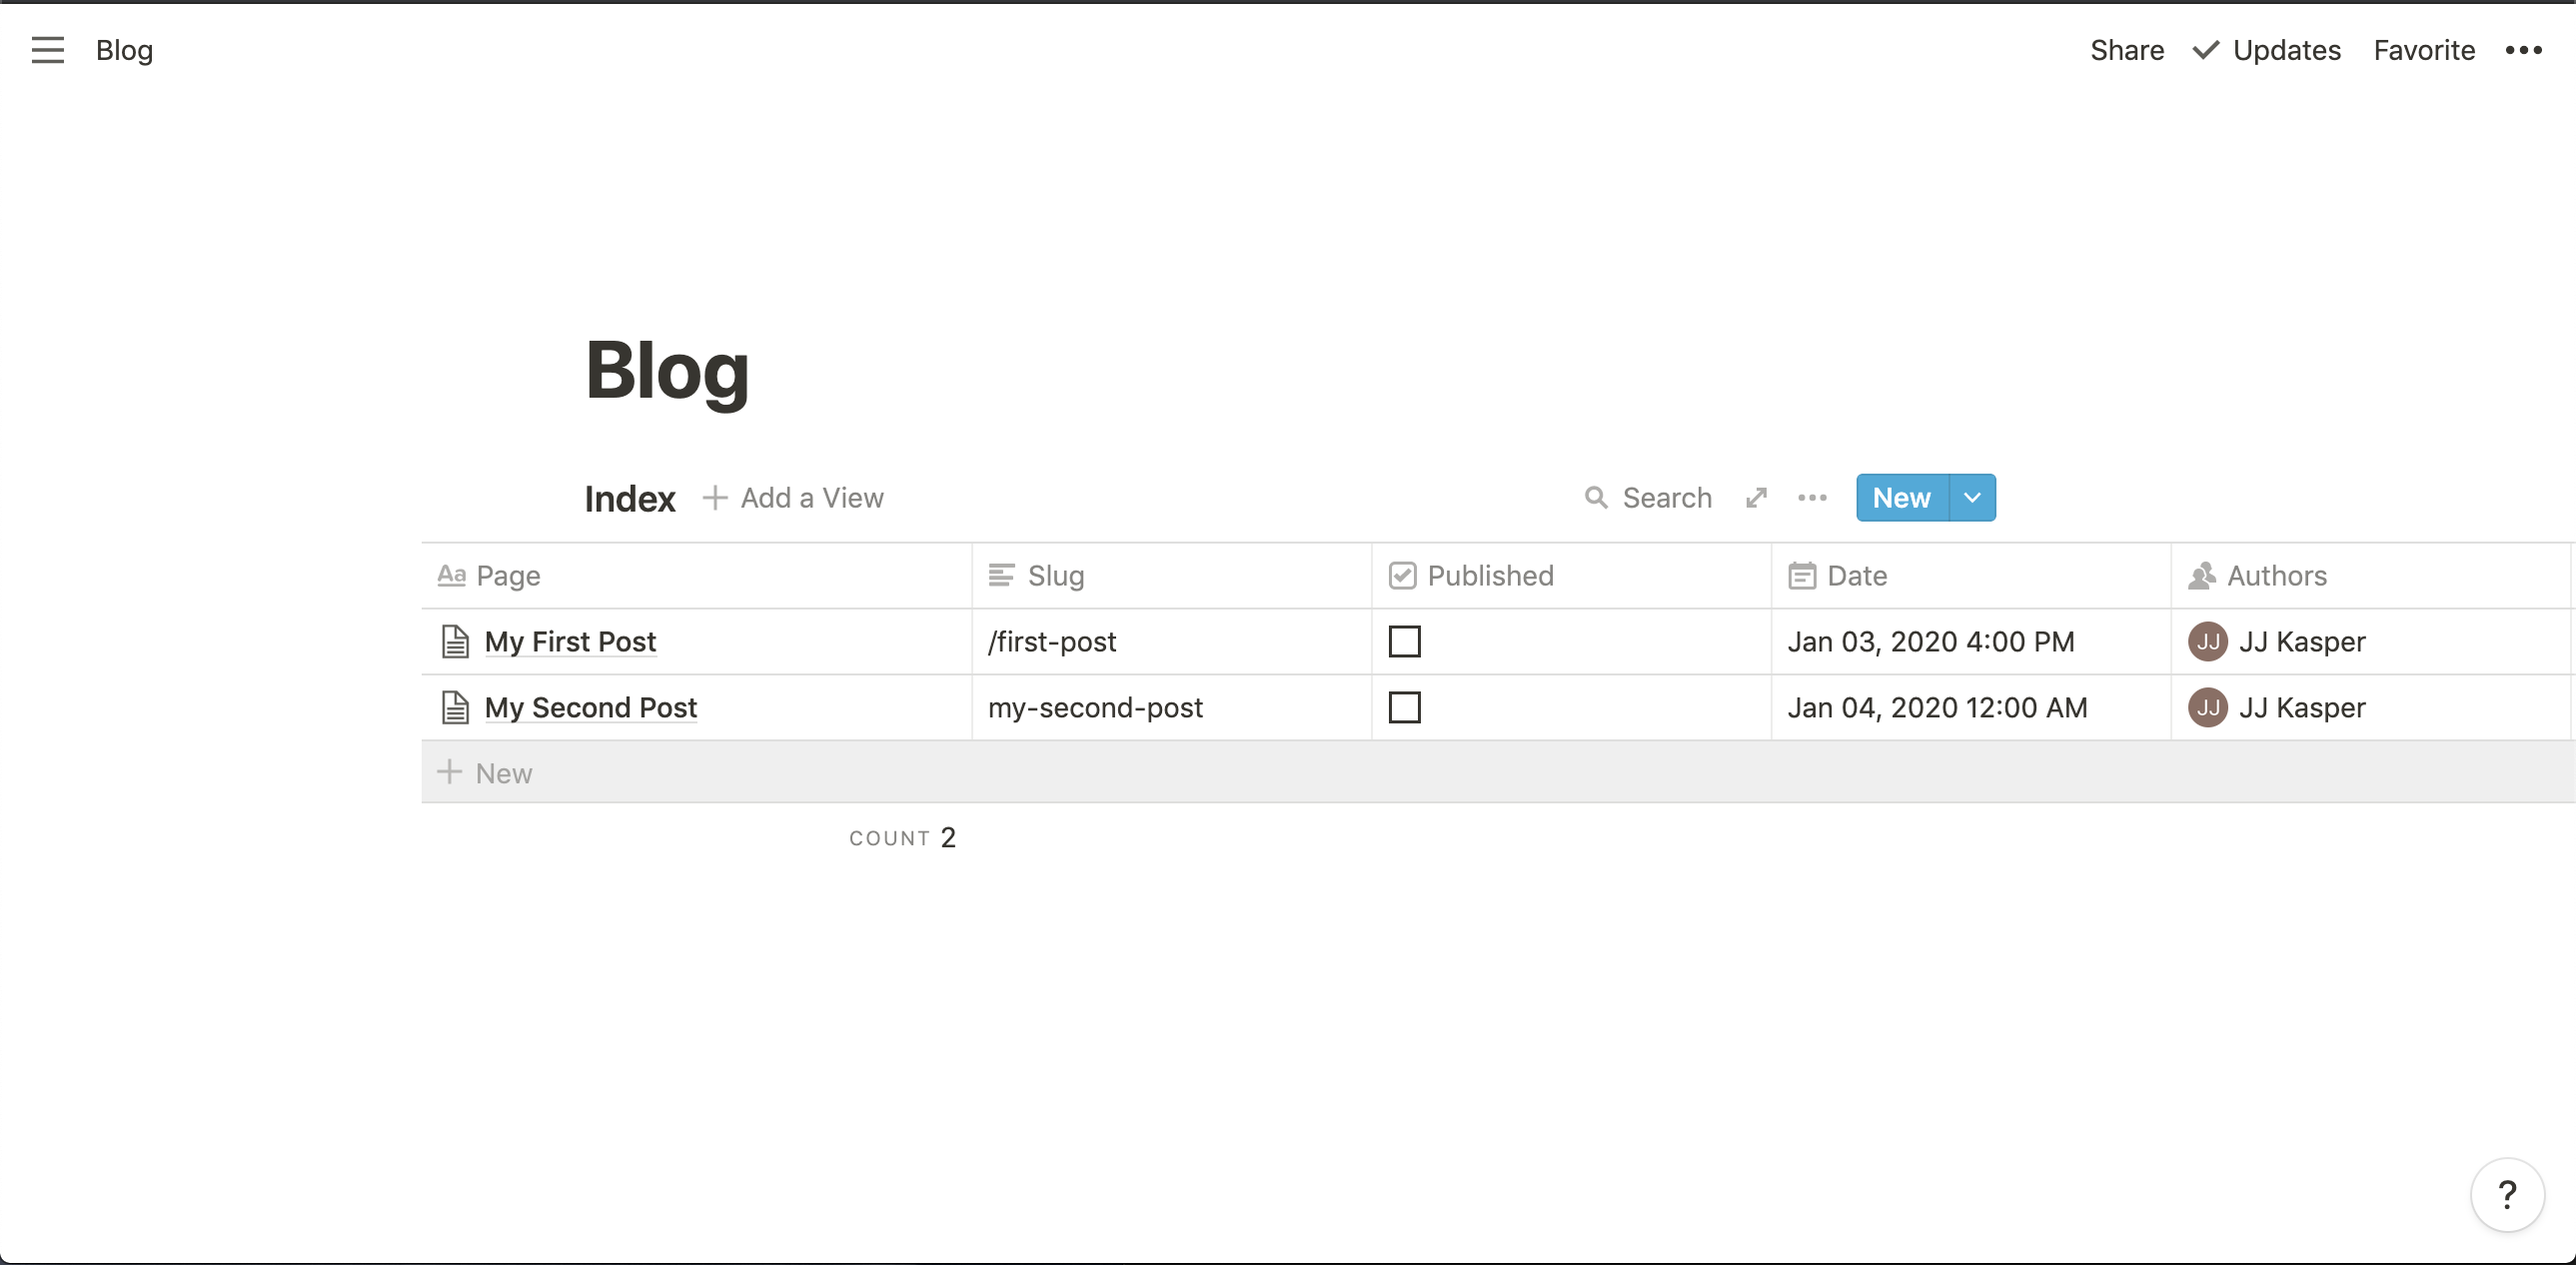
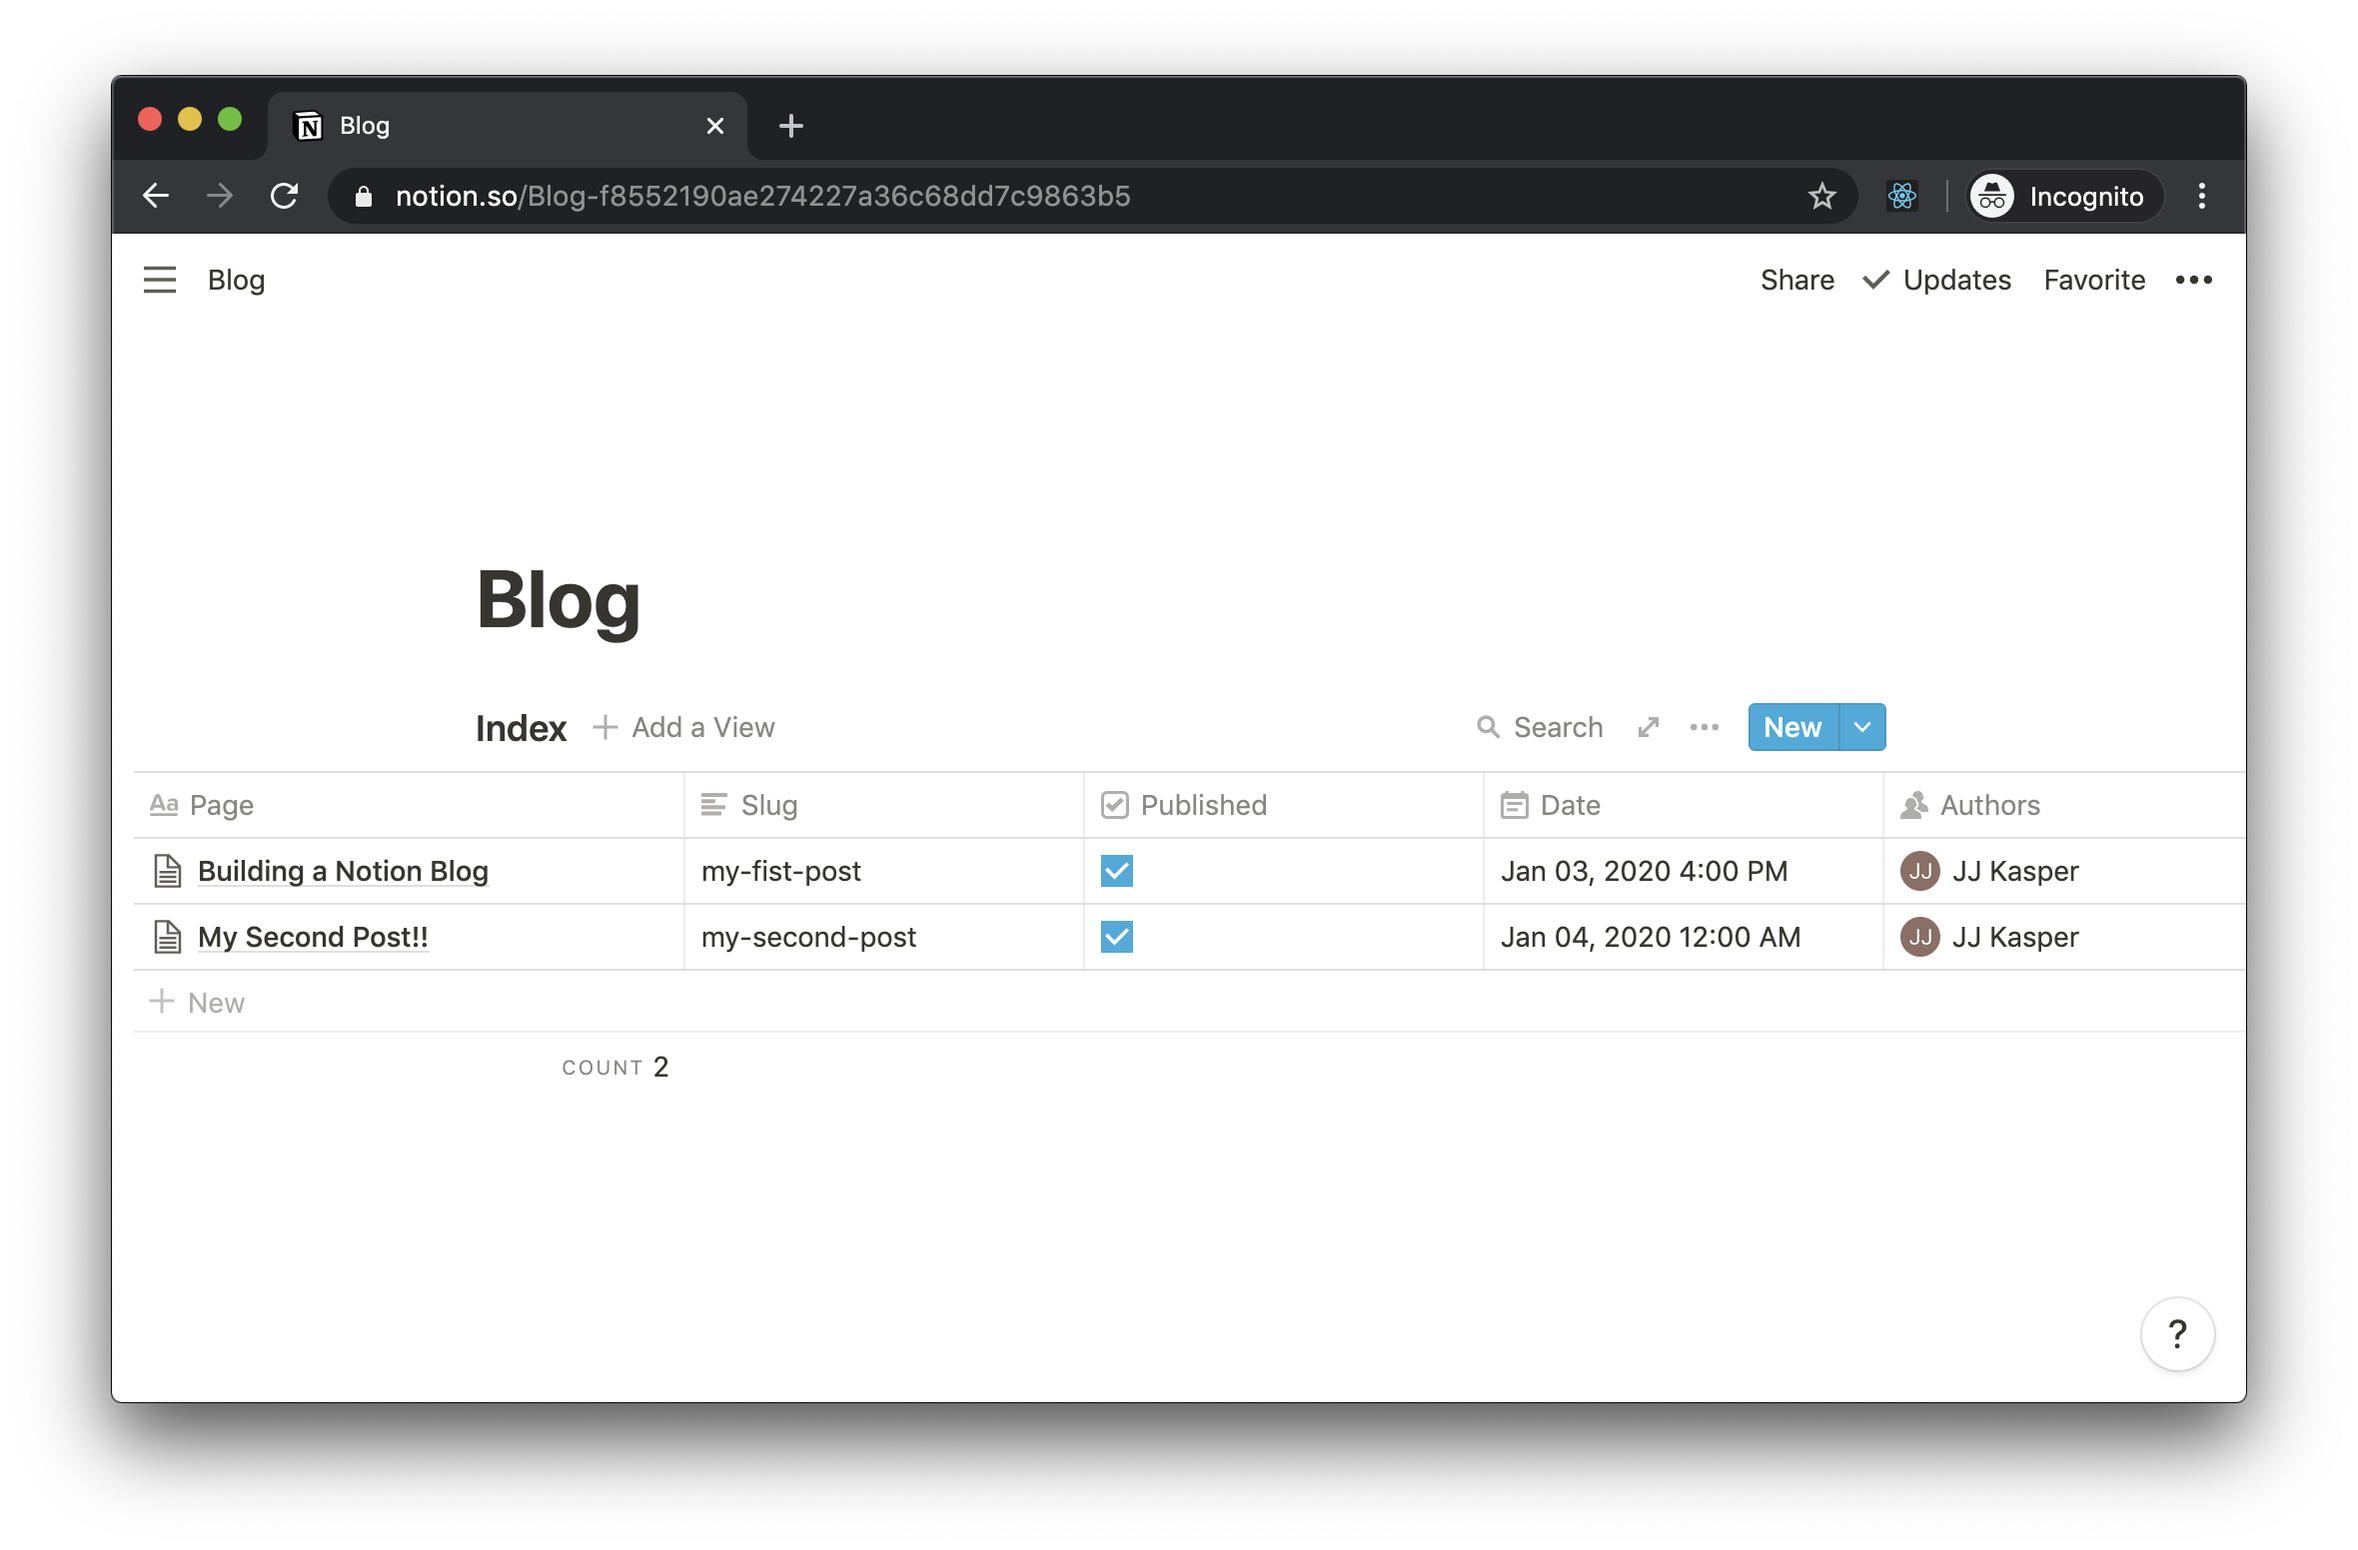
Add caching, rss generation, and update screenshot

diff --git a/src/lib/notion/getBlogIndex.ts b/src/lib/notion/getBlogIndex.ts
@@ -2,45 +2,66 @@ import { Sema } from 'async-sema'
 import rpc, { values } from './rpc'
 import getTableData from './getTableData'
 import { getPostPreview } from './getPostPreview'
-import { BLOG_INDEX_ID } from './server-constants'
+import { readFile, writeFile } from '../fs-helpers'
+import { BLOG_INDEX_ID, BLOG_INDEX_CACHE } from './server-constants'
 
 export default async function getBlogIndex(previews = true) {
-  const data = await rpc('loadPageChunk', {
-    pageId: BLOG_INDEX_ID,
-    limit: 999, // TODO: figure out Notion's way of handling pagination
-    cursor: { stack: [] },
-    chunkNumber: 0,
-    verticalColumns: false,
-  })
+  let postsTable: any = null
+  const isProd = process.env.NODE_ENV === 'production'
+  const cacheFile = `${BLOG_INDEX_CACHE}${previews ? '_previews' : ''}`
 
-  // Parse table with posts
-  const tableBlock = values(data.recordMap.block).find(
-    (block: any) => block.value.type === 'collection_view'
-  )
+  if (isProd) {
+    try {
+      postsTable = JSON.parse(await readFile(cacheFile, 'utf8'))
+    } catch (_) {
+      /* not fatal */
+    }
+  }
 
-  const postsTable = await getTableData(tableBlock, true)
-  const postsKeys = Object.keys(postsTable)
-  const sema = new Sema(3, { capacity: postsKeys.length })
+  if (!postsTable) {
+    const data = await rpc('loadPageChunk', {
+      pageId: BLOG_INDEX_ID,
+      limit: 999, // TODO: figure out Notion's way of handling pagination
+      cursor: { stack: [] },
+      chunkNumber: 0,
+      verticalColumns: false,
+    })
 
-  if (previews) {
-    await Promise.all(
-      postsKeys
-        .sort((a, b) => {
-          const postA = postsTable[a]
-          const postB = postsTable[b]
-          const timeA = postA.Date
-          const timeB = postB.Date
-          return Math.sign(timeB - timeA)
-        })
-        .map(async postKey => {
-          await sema.acquire()
-          const post = postsTable[postKey]
-          post.preview = post.id
-            ? await getPostPreview(postsTable[postKey].id)
-            : []
-          sema.release()
-        })
+    // Parse table with posts
+    const tableBlock = values(data.recordMap.block).find(
+      (block: any) => block.value.type === 'collection_view'
     )
+
+    postsTable = await getTableData(tableBlock, true)
+    // only get 10 most recent post's previews
+    const postsKeys = Object.keys(postsTable).splice(0, 10)
+
+    const sema = new Sema(3, { capacity: postsKeys.length })
+
+    if (previews) {
+      await Promise.all(
+        postsKeys
+          .sort((a, b) => {
+            const postA = postsTable[a]
+            const postB = postsTable[b]
+            const timeA = postA.Date
+            const timeB = postB.Date
+            return Math.sign(timeB - timeA)
+          })
+          .map(async postKey => {
+            await sema.acquire()
+            const post = postsTable[postKey]
+            post.preview = post.id
+              ? await getPostPreview(postsTable[postKey].id)
+              : []
+            sema.release()
+          })
+      )
+    }
+
+    if (isProd) {
+      writeFile(cacheFile, JSON.stringify(postsTable), 'utf8').catch(() => {})
+    }
   }
 
   return postsTable

diff --git a/src/lib/build-rss.ts b/src/lib/build-rss.ts
@@ -1,0 +1,104 @@
+import { resolve } from 'path'
+import { writeFile } from './fs-helpers'
+import { renderToStaticMarkup } from 'react-dom/server'
+
+import { textBlock } from './notion/renderers'
+import getBlogIndex from './notion/getBlogIndex'
+import getNotionUsers from './notion/getNotionUsers'
+import { postIsReady, getBlogLink } from './blog-helpers'
+
+// must use weird syntax to bypass auto replacing of NODE_ENV
+process.env['NODE' + '_ENV'] = 'production'
+
+// constants
+const NOW = new Date().toJSON()
+
+function mapToAuthor(author) {
+  return `<author><name>${author.full_name}</name></author>`
+}
+
+function decode(string) {
+  return string
+    .replace(/&/g, '&amp;')
+    .replace(/</g, '&lt;')
+    .replace(/>/g, '&gt;')
+    .replace(/"/g, '&quot;')
+    .replace(/'/g, '&apos;')
+}
+
+function mapToEntry(post) {
+  return `
+    <entry>
+      <id>${post.link}</id>
+      <title>${decode(post.title)}</title>
+      <link href="${post.link}"/>
+      <updated>${new Date(post.date).toJSON()}</updated>
+      <content type="xhtml">
+        <div xmlns="http://www.w3.org/1999/xhtml">
+          ${renderToStaticMarkup(
+            post.preview
+              ? (post.preview || []).map((block, idx) =>
+                  textBlock(block, false, post.title + idx)
+                )
+              : post.content
+          )}
+          <p class="more">
+            <a href="${post.link}">Read more</a>
+          </p>
+        </div>
+      </content>
+      ${(post.authors || []).map(mapToAuthor).join('\n      ')}
+    </entry>`
+}
+
+function concat(total, item) {
+  return total + item
+}
+
+function createRSS(blogPosts = []) {
+  const postsString = blogPosts.map(mapToEntry).reduce(concat, '')
+
+  return `<?xml version="1.0" encoding="utf-8"?>
+  <feed xmlns="http://www.w3.org/2005/Atom">
+    <title>My Blog</title>
+    <subtitle>Blog</subtitle>
+    <link href="/atom" rel="self" type="application/rss+xml"/>
+    <link href="/" />
+    <updated>${NOW}</updated>
+    <id>My Notion Blog</id>${postsString}
+  </feed>`
+}
+
+async function main() {
+  const postsTable = await getBlogIndex(true)
+  const neededAuthors = new Set<string>()
+
+  const blogPosts = Object.keys(postsTable)
+    .map(slug => {
+      const post = postsTable[slug]
+      if (!postIsReady(post)) return
+
+      post.authors = post.Authors || []
+
+      for (const author of post.authors) {
+        neededAuthors.add(author)
+      }
+      return post
+    })
+    .filter(Boolean)
+
+  const { users } = await getNotionUsers([...neededAuthors])
+
+  blogPosts.forEach(post => {
+    post.authors = post.authors.map(id => users[id])
+    post.link = getBlogLink(post.Slug)
+    post.title = post.Page
+    post.date = post.Date
+  })
+
+  const outputPath = './public/atom'
+  await writeFile(resolve(outputPath), createRSS(blogPosts))
+  console.log(`Atom feed file generated at \`${outputPath}\``)
+}
+
+main().catch(error => console.error(error))

diff --git a/src/pages/blog/index.tsx b/src/pages/blog/index.tsx
@@ -4,7 +4,7 @@ import Header from '../../components/header'
 import blogStyles from '../../styles/blog.module.css'
 import sharedStyles from '../../styles/shared.module.css'
 
-import { getBlogLink, getDateStr } from '../../lib/blog-helpers'
+import { getBlogLink, getDateStr, postIsReady } from '../../lib/blog-helpers'
 import { textBlock } from '../../lib/notion/renderers'
 import getNotionUsers from '../../lib/notion/getNotionUsers'
 import getBlogIndex from '../../lib/notion/getBlogIndex'
@@ -17,7 +17,7 @@ export async function unstable_getStaticProps() {
     .map(slug => {
       const post = postsTable[slug]
       // remove draft posts in production
-      if (process.env.NODE_ENV === 'production' && post.Published !== 'Yes') {
+      if (!postIsReady(post)) {
         return null
       }
       post.Authors = post.Authors || []
@@ -61,7 +61,7 @@ export default ({ posts = [] }) => {
               <div className="authors">By: {post.Authors.join(' ')}</div>
               <div className="posted">Posted: {getDateStr(post.Date)}</div>
               <p>
-                {post.preview.map((block, idx) =>
+                {(post.preview || []).map((block, idx) =>
                   textBlock(block, true, `${post.Slug}${idx}`)
                 )}
               </p>

diff --git a/next.config.js b/next.config.js
@@ -1,4 +1,17 @@
+const fs = require('fs')
+const path = require('path')
 const { NODE_ENV, NOTION_TOKEN, BLOG_INDEX_ID } = process.env
+
+try {
+  fs.unlinkSync(path.resolve('.blog_index_data'))
+} catch (_) {
+  /* non fatal */
+}
+try {
+  fs.unlinkSync(path.resolve('.blog_index_data_previews'))
+} catch (_) {
+  /* non fatal */
+}
 
 const warnOrError =
   NODE_ENV !== 'production'
@@ -26,7 +39,22 @@ if (!BLOG_INDEX_ID) {
 }
 
 module.exports = {
+  target: 'experimental-serverless-trace',
+
   experimental: {
     css: true,
+  },
+
+  webpack(cfg, { dev, isServer }) {
+    // only compile build-rss in production server build
+    if (dev || !isServer) return cfg
+
+    const originalEntry = cfg.entry
+    cfg.entry = async () => {
+      const entries = { ...(await originalEntry()) }
+      entries['./scripts/build-rss.js'] = './src/lib/build-rss.ts'
+      return entries
+    }
+    return cfg
   },
 }

diff --git a/src/lib/notion/queryCollection.ts b/src/lib/notion/queryCollection.ts
@@ -11,8 +11,6 @@ export default function queryCollection({
     loadContentCover = true,
     type = 'table',
     userLocale = 'en',
-    // we use America/Phoenix since it doesn't do daylight savings and
-    // we can't use UTC here
     userTimeZone = 'America/Phoenix',
   } = loader
 

diff --git a/src/lib/notion/server-constants.ts b/src/lib/notion/server-constants.ts
@@ -1,3 +1,6 @@
+import path from 'path'
+
 export const NOTION_TOKEN = process.env.NOTION_TOKEN
 export const BLOG_INDEX_ID = process.env.BLOG_INDEX_ID
 export const API_ENDPOINT = 'https://www.notion.so/api/v3'
+export const BLOG_INDEX_CACHE = path.resolve('.blog_index_data')

diff --git a/src/lib/blog-helpers.ts b/src/lib/blog-helpers.ts
@@ -9,3 +9,7 @@ export const getDateStr = date => {
     year: 'numeric',
   })
 }
+
+export const postIsReady = (post: any) => {
+  return process.env.NODE_ENV !== 'production' || post.Published === 'Yes'
+}

diff --git a/src/lib/fs-helpers.ts b/src/lib/fs-helpers.ts
@@ -1,0 +1,5 @@
+import fs from 'fs'
+import { promisify } from 'util'
+
+export const readFile = promisify(fs.readFile)
+export const writeFile = promisify(fs.writeFile)
